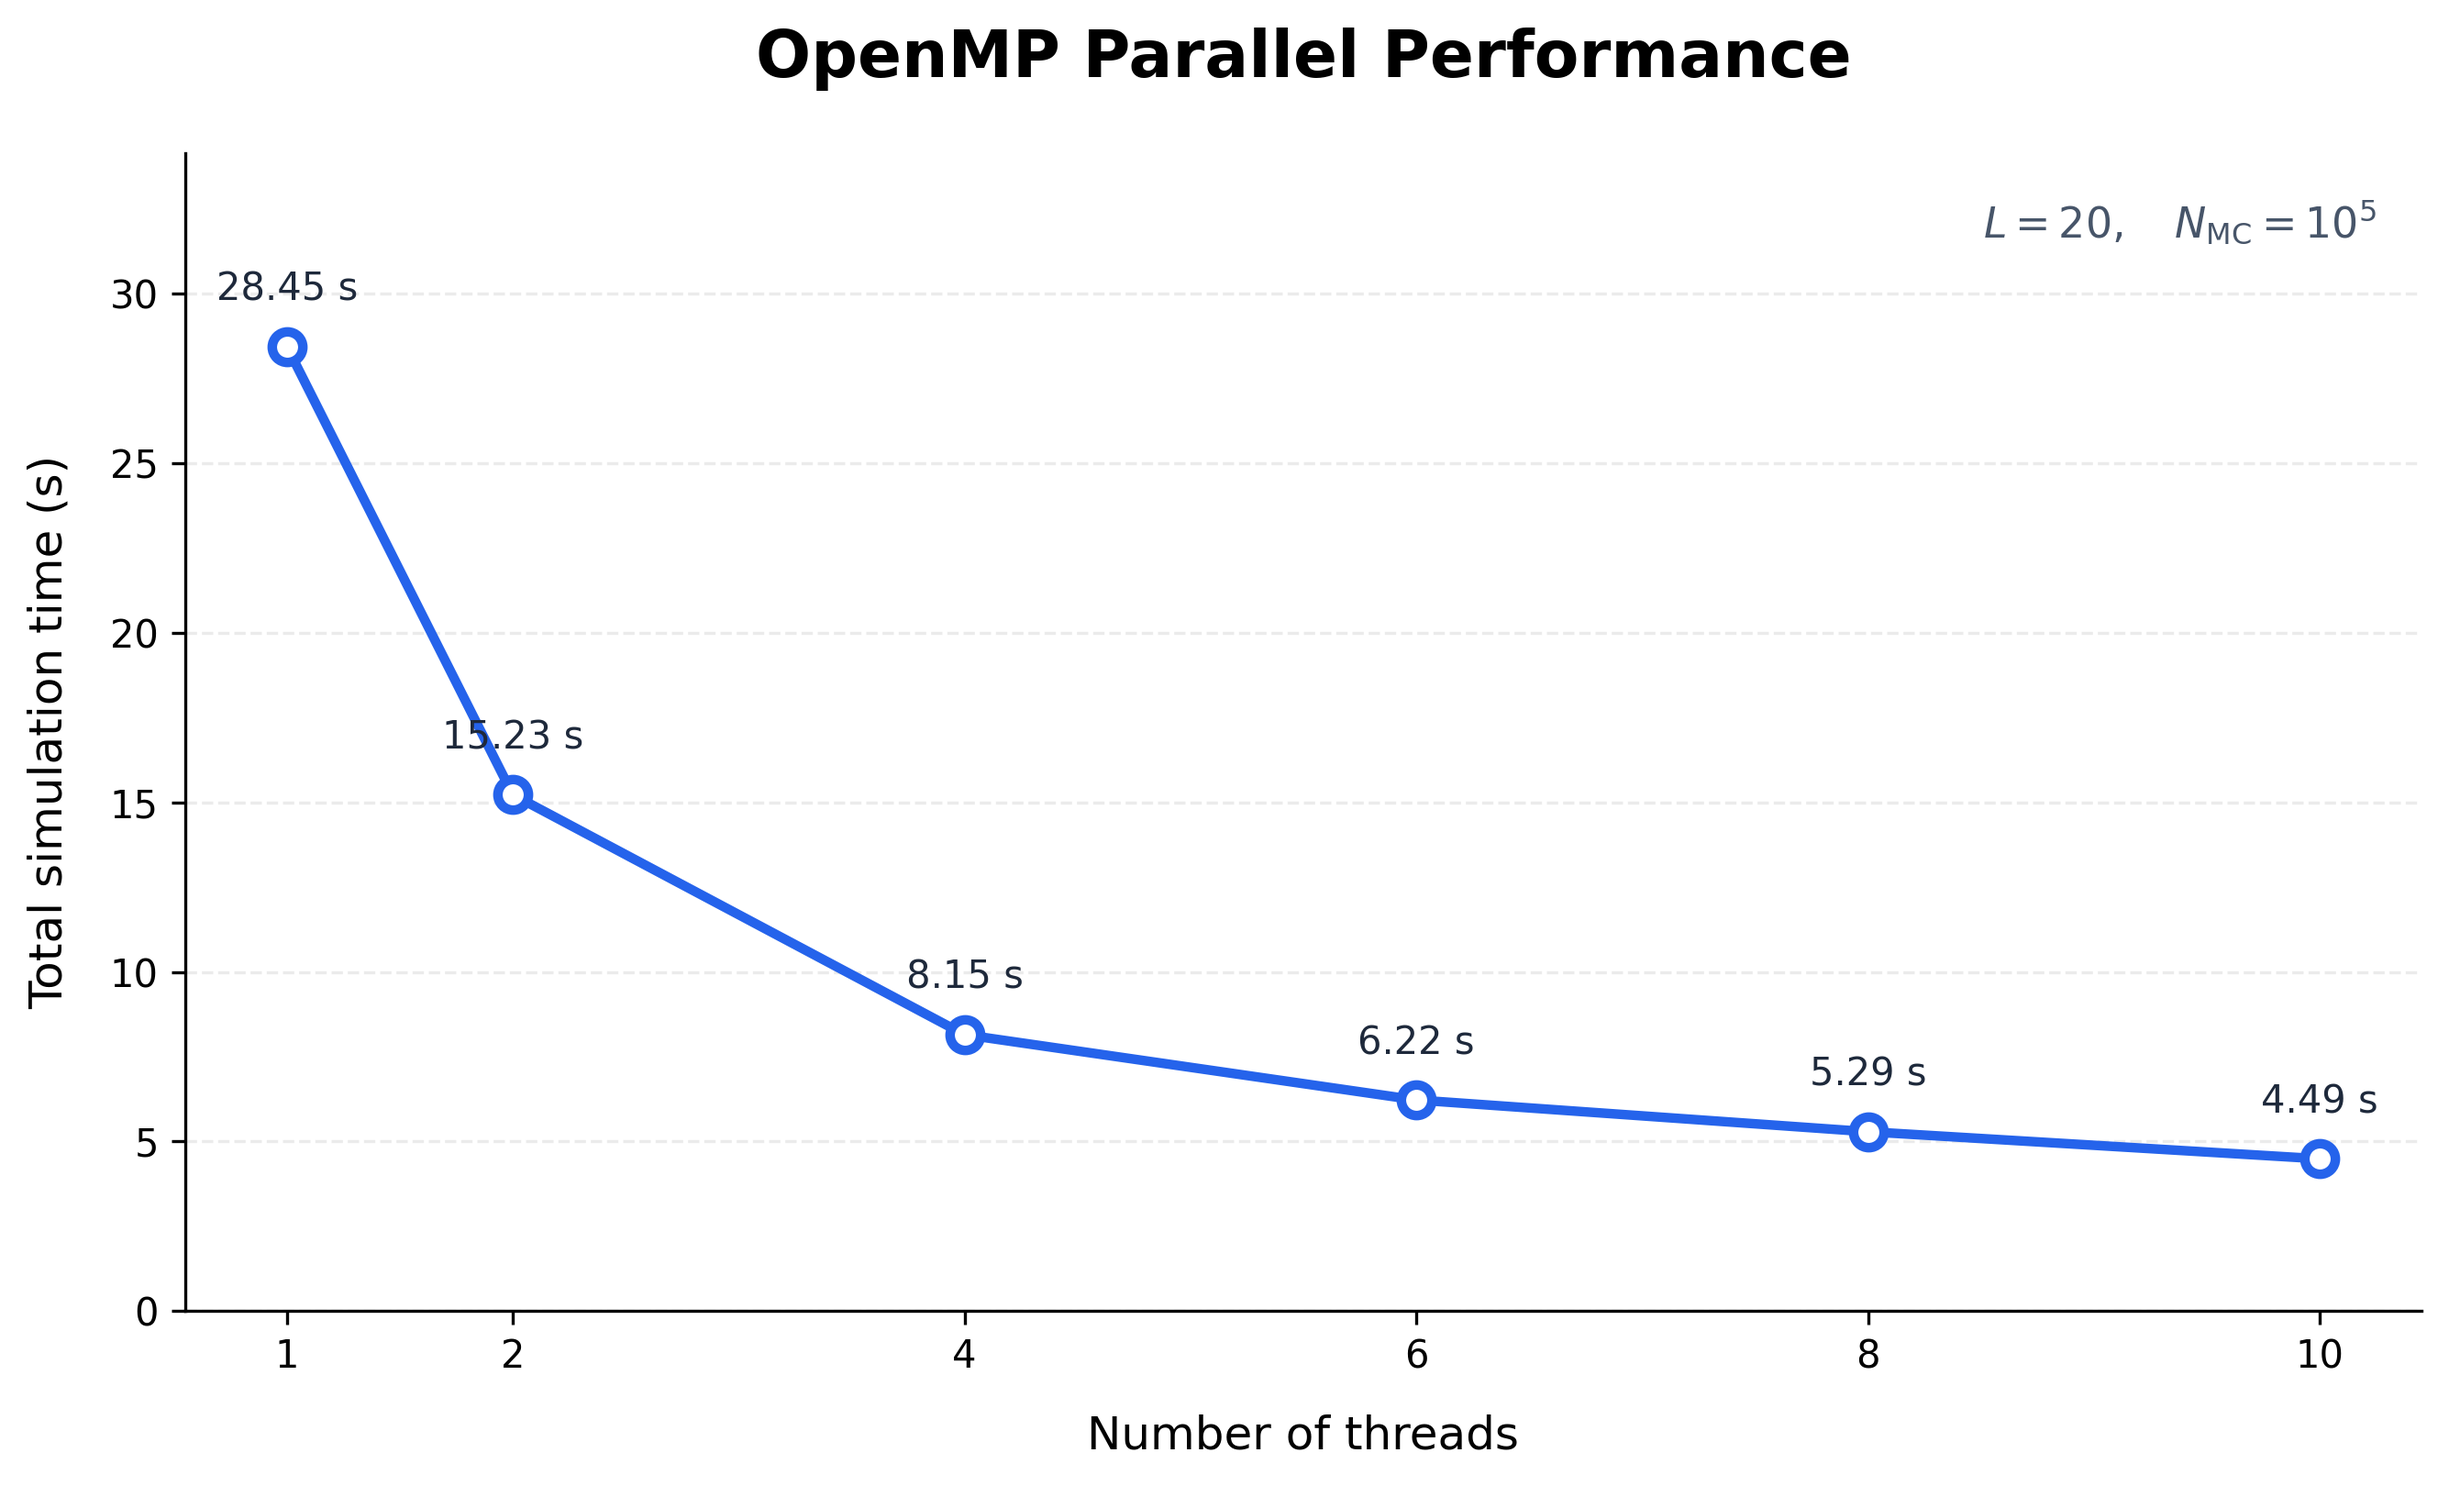
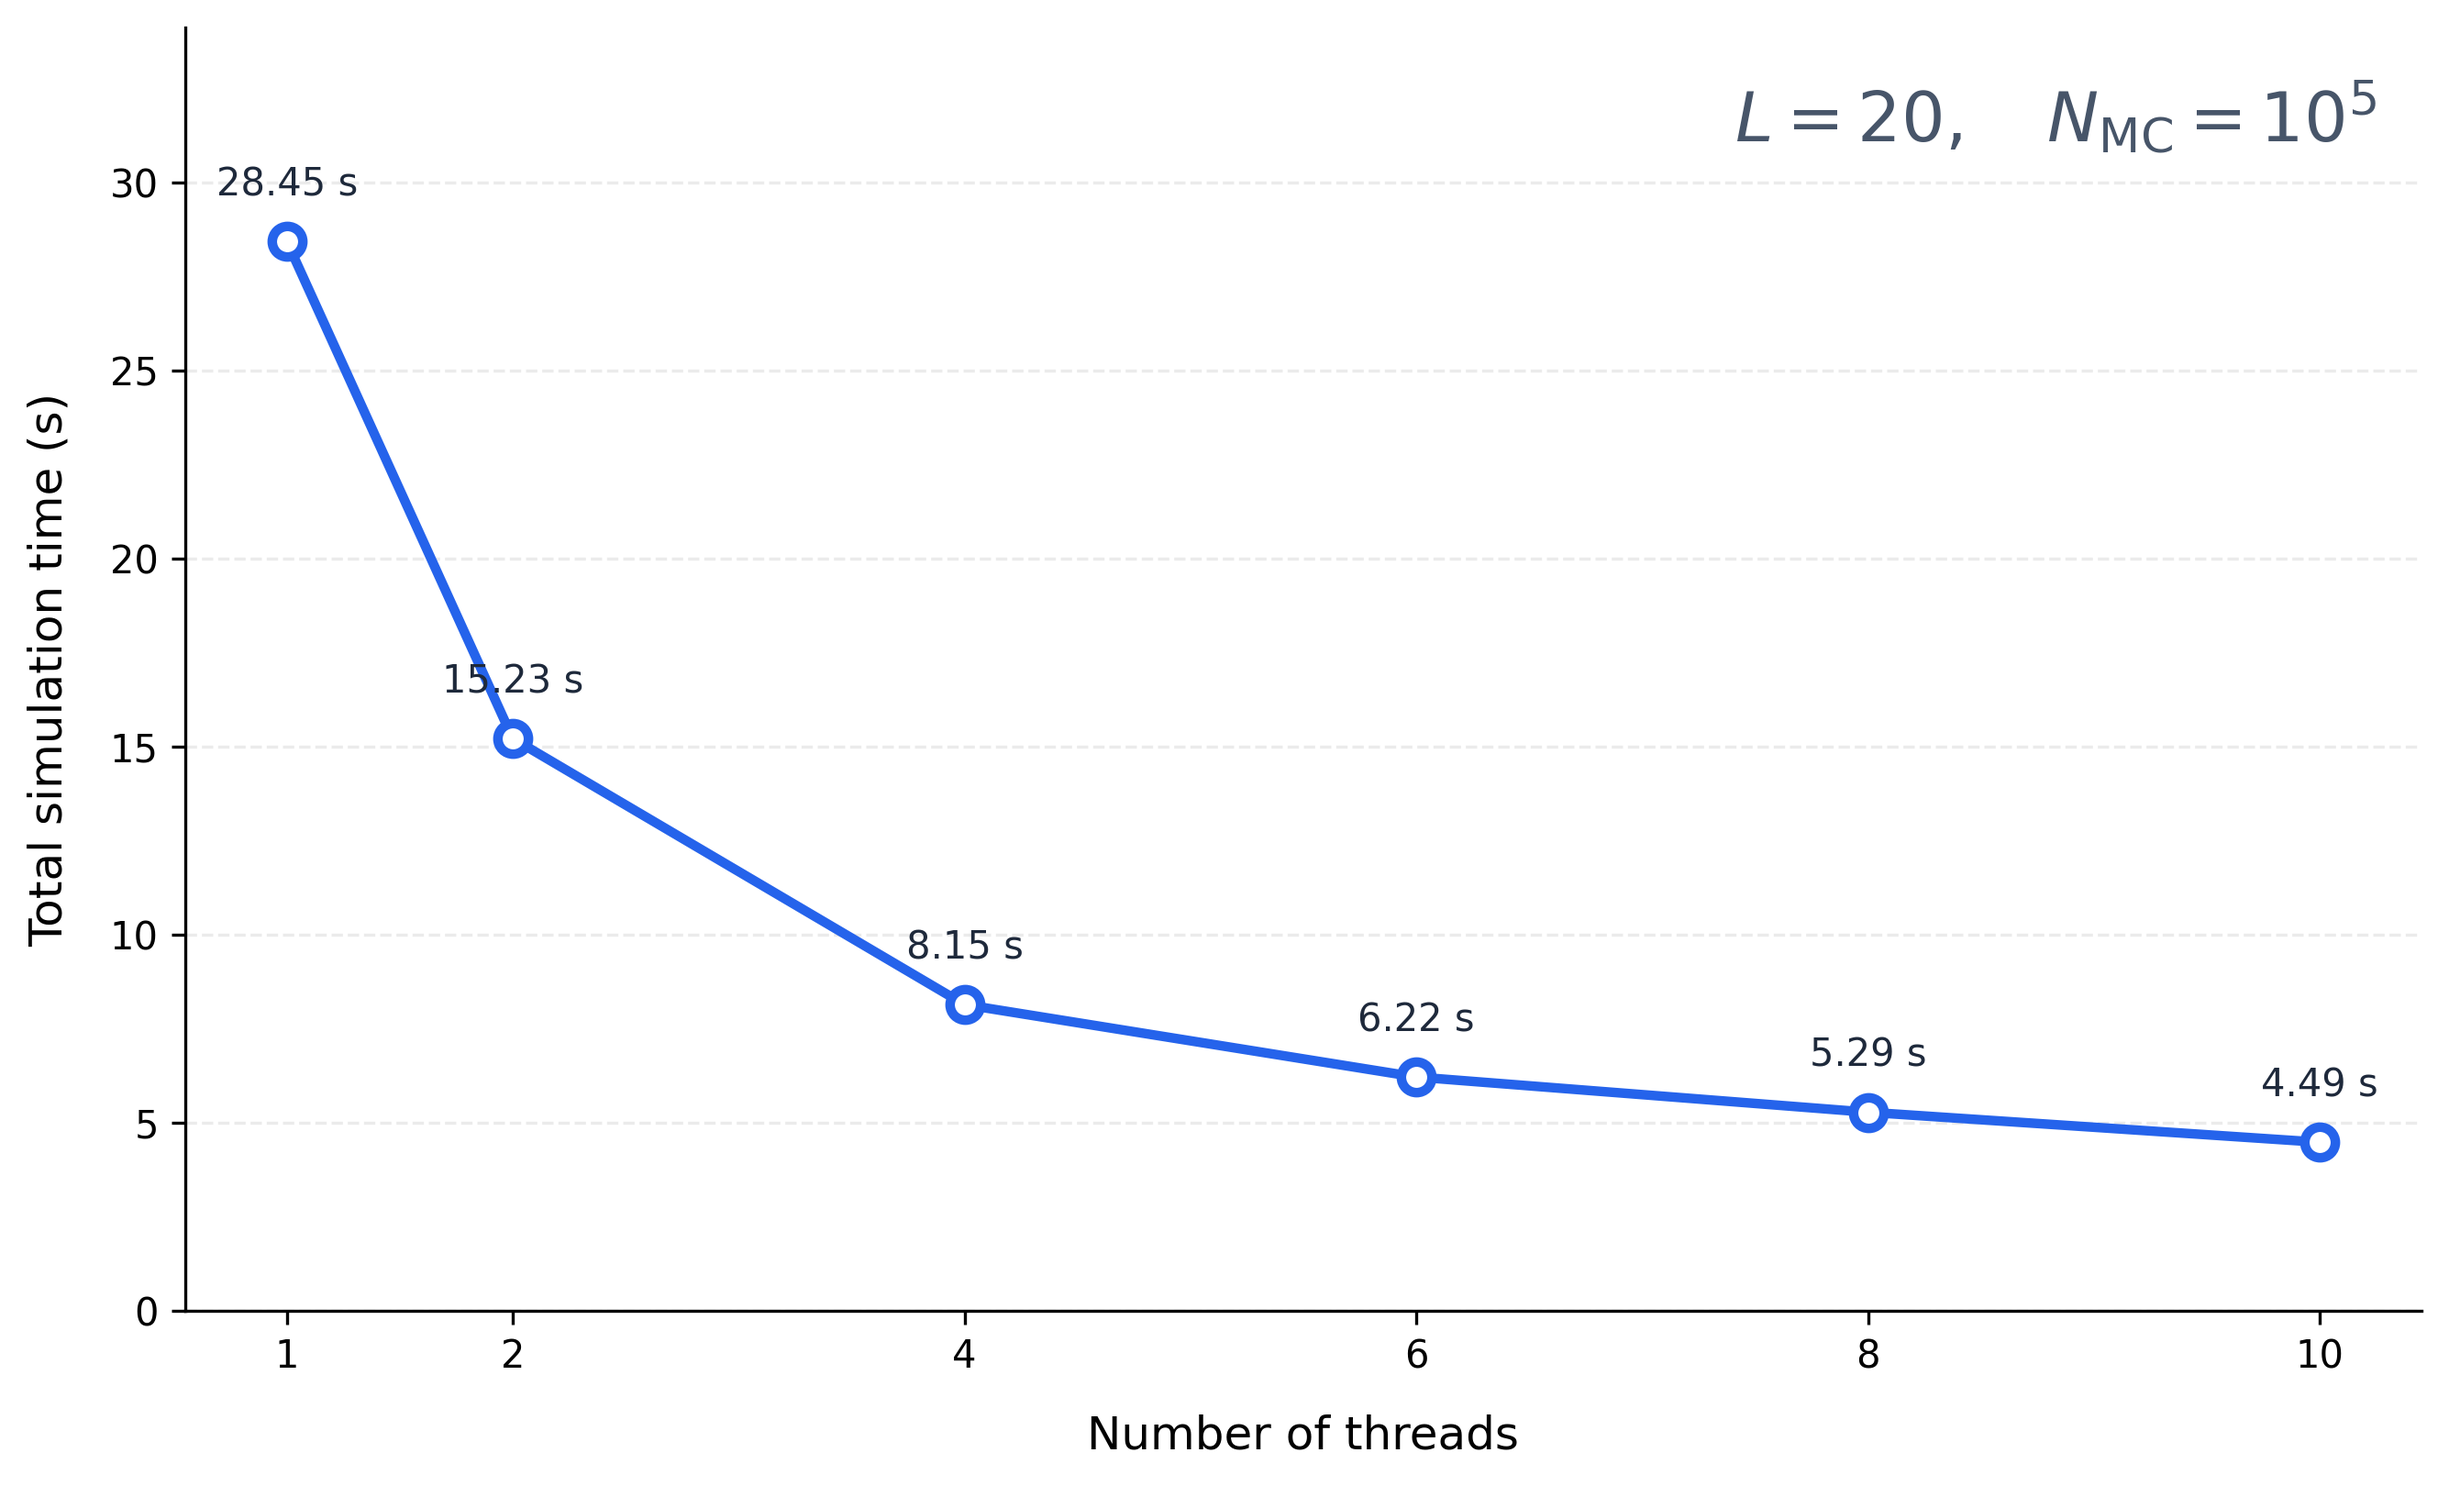
increased font size

diff --git a/Lenz-Ising-Model/Code /task 7 data/time_plot7.py b/Lenz-Ising-Model/Code /task 7 data/time_plot7.py
@@ -48,12 +48,12 @@ for n, t in zip(threads, total_times):
         color="#1E293B"
     )
 
-ax.set_title(
+'''ax.set_title(
     "OpenMP Parallel Performance",
     fontsize=17,
     fontweight="bold",
     pad=20
-)
+)'''
 
 ax.set_xlabel("Number of threads", fontsize=12, labelpad=10)
 ax.set_ylabel("Total simulation time (s)", fontsize=12, labelpad=10)
@@ -75,7 +75,7 @@ ax.text(
     transform=ax.transAxes,
     ha="right",
     va="top",
-    fontsize=11,
+    fontsize=18,
     color="#475569"
 )
 
